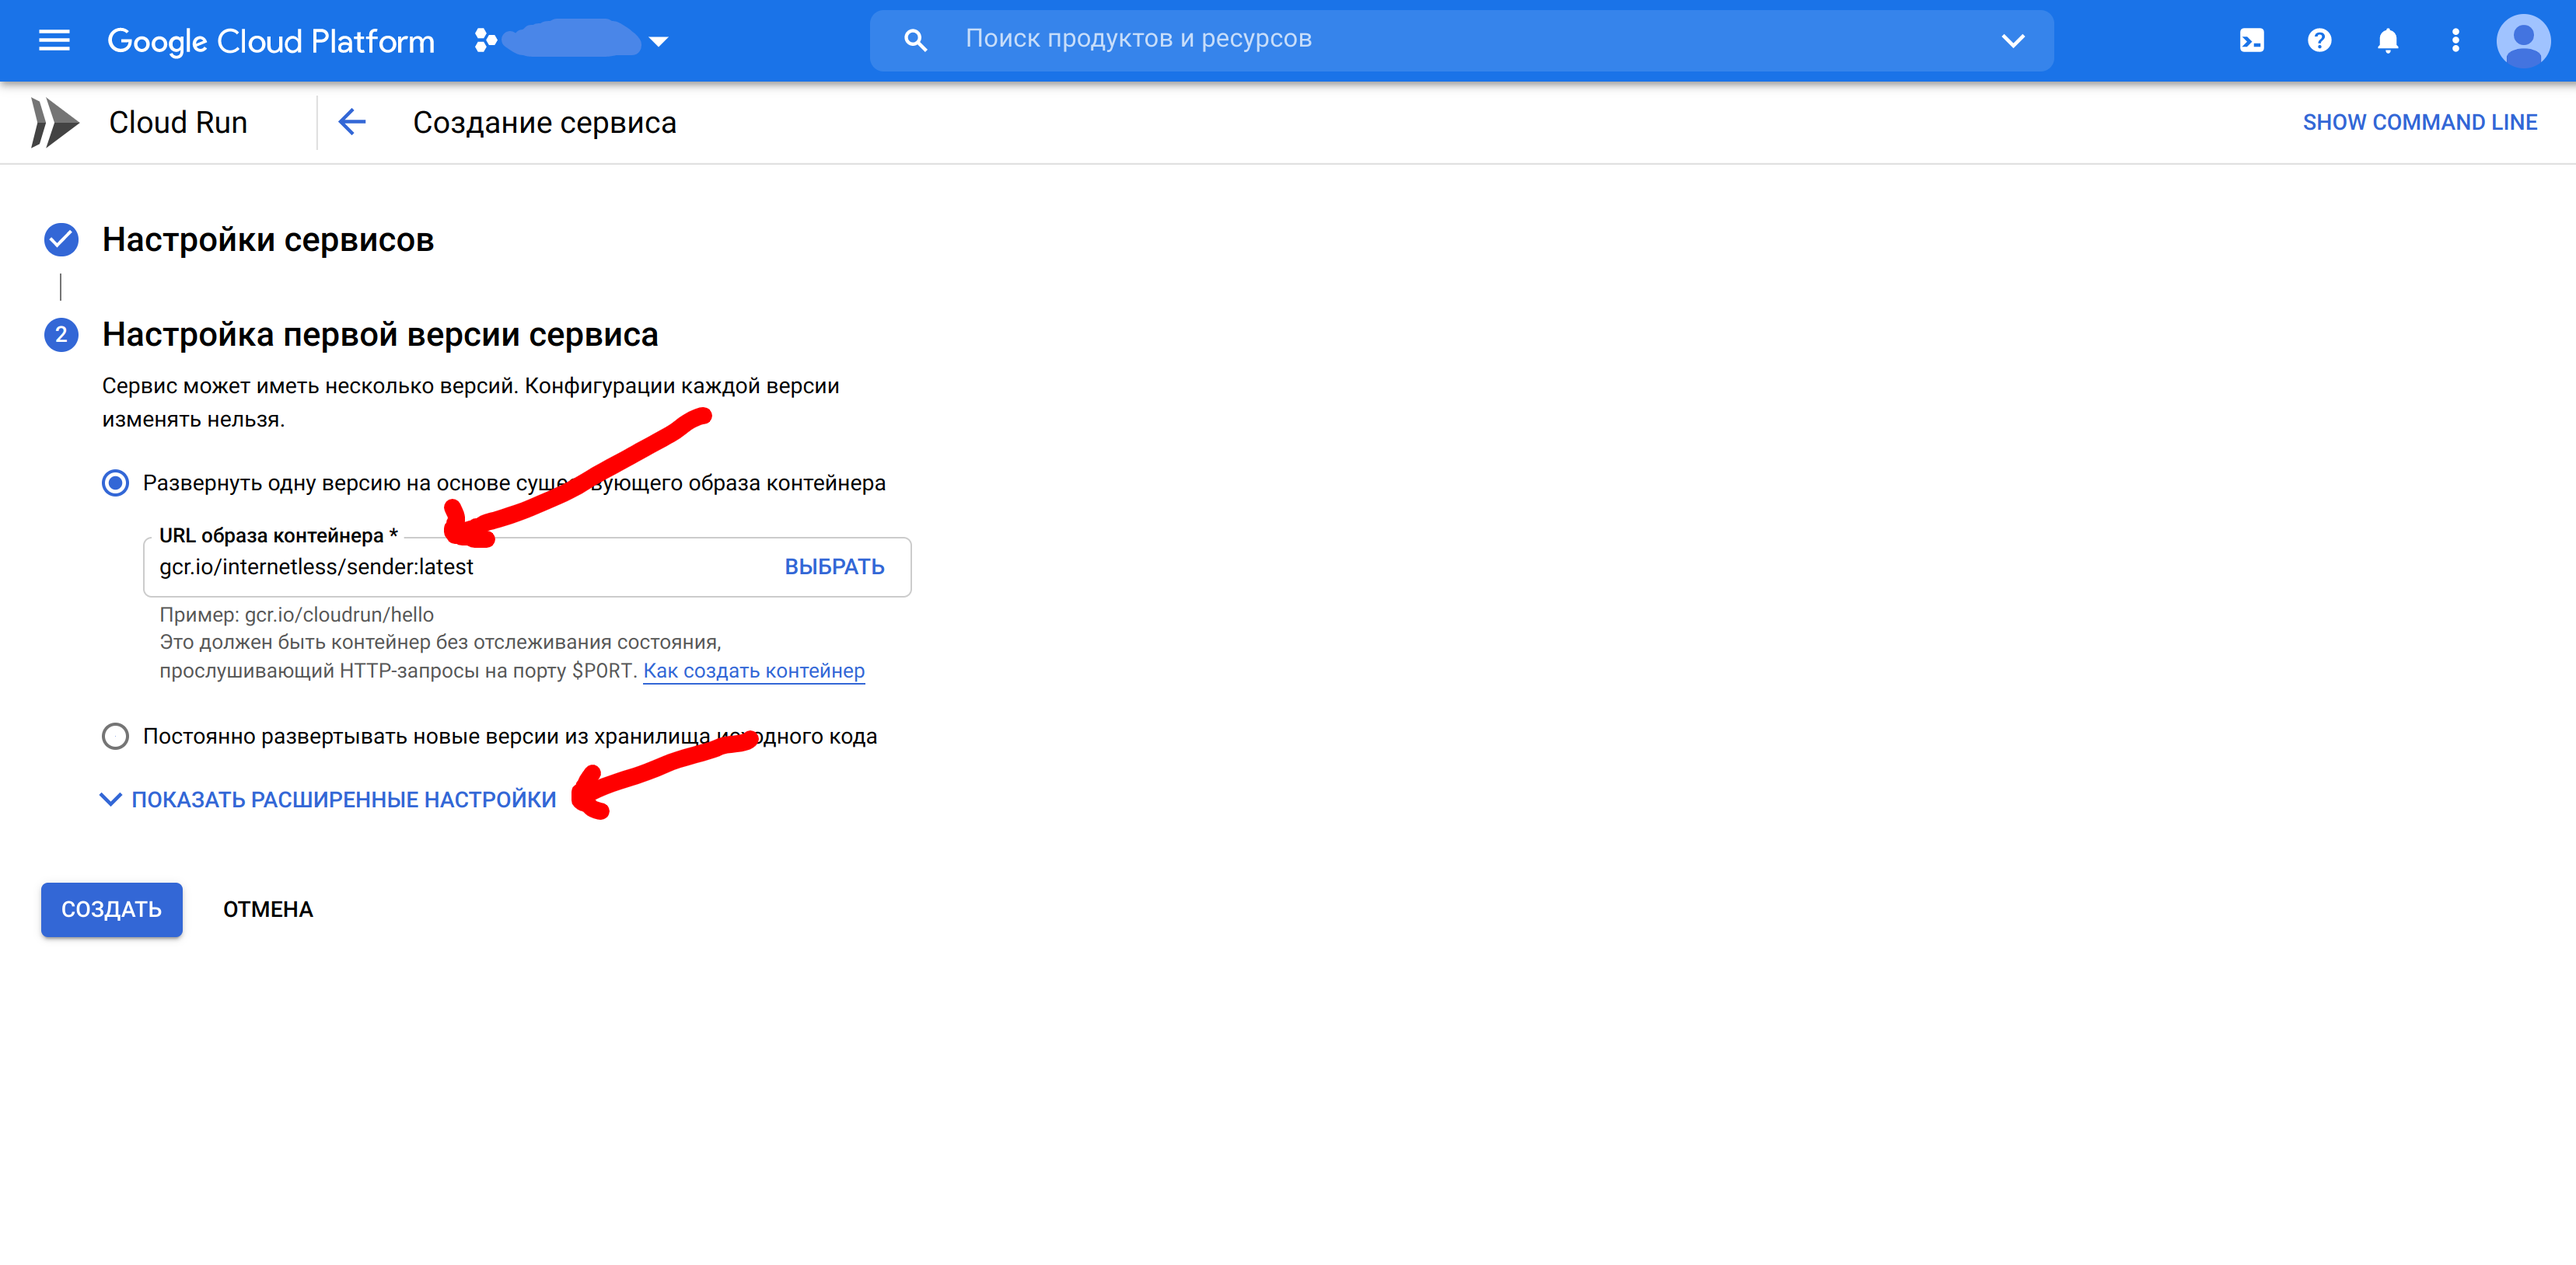
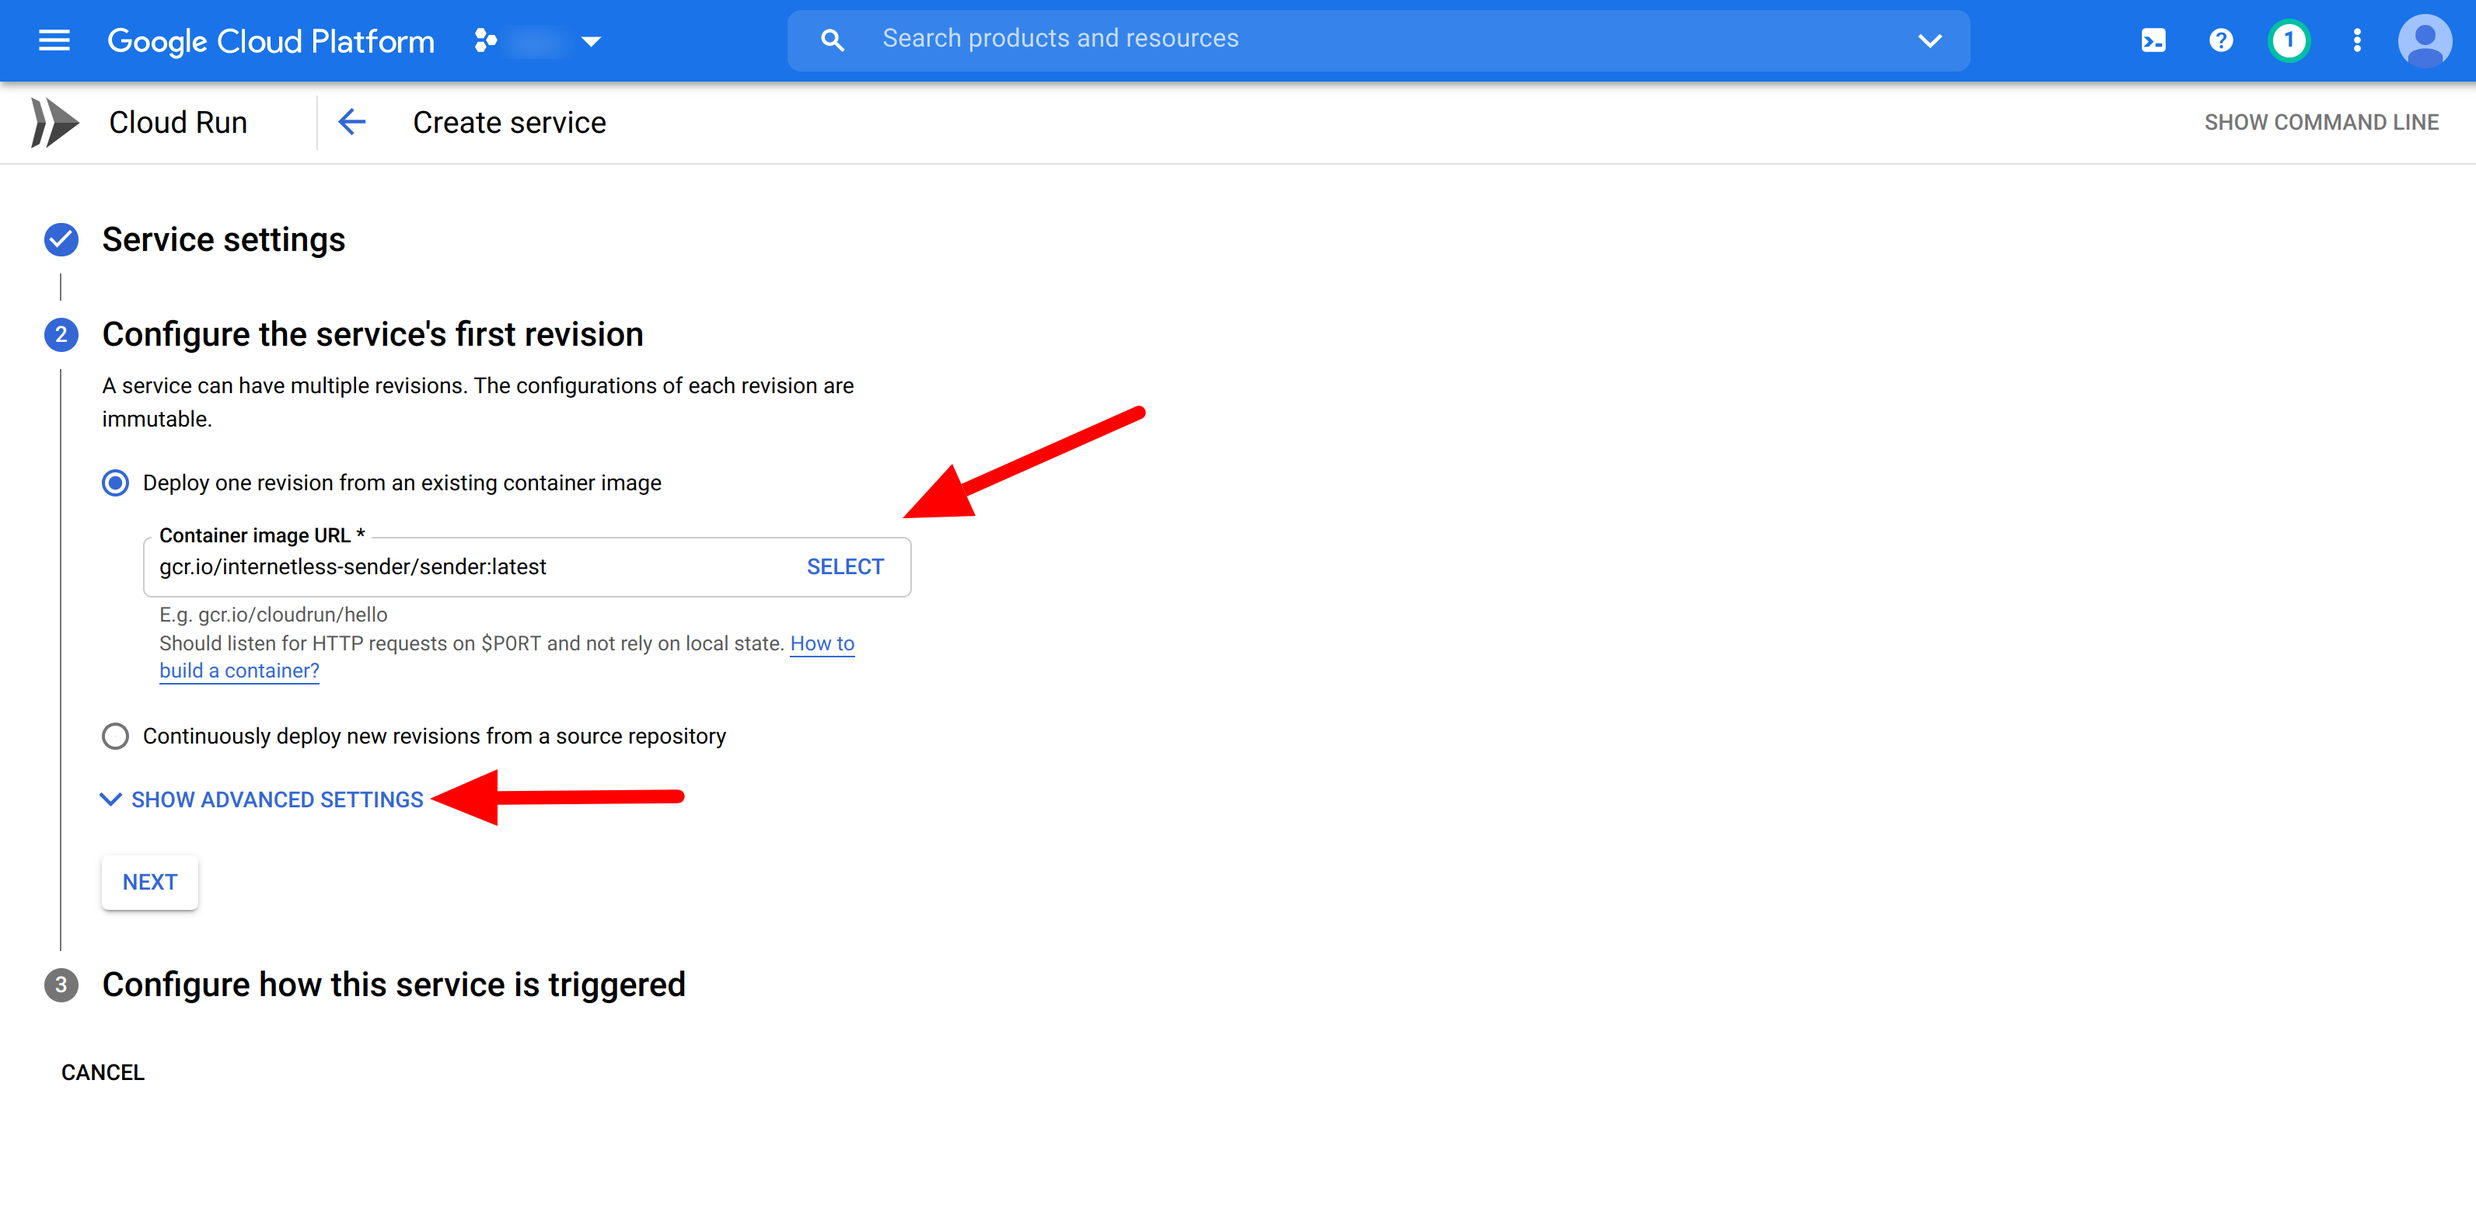
repair

diff --git a/README.md b/README.md
@@ -23,7 +23,7 @@
 2. Активируйте trial. [Screenshot](https://raw.githubusercontent.com/InternetLess/sender/master/screenshots/activate-gcp-trial.png). Там потребуется карта, но это бесплатно и гуглу можно доверять :)
 3. Зайдите на страницу создания сервиса Cloud Run(это дешёвый способ запускать контейнеры). https://console.cloud.google.com/run/create
 4. Заполните поля, как на скриншоте. [Screenshot](https://raw.githubusercontent.com/InternetLess/sender/master/screenshots/cloud-run-fill-1.png)
-5. Url образа контейнера: `gcr.io/internetless/sender:latest` [Screenshot](https://raw.githubusercontent.com/InternetLess/sender/master/screenshots/cloud-run-fill-2.png)
+5. Url образа контейнера: `gcr.io/internetless-sender/sender:latest` [Screenshot](https://raw.githubusercontent.com/InternetLess/sender/master/screenshots/cloud-run-fill-2.png)
 6. Заполните переменные: [Screenshot](https://raw.githubusercontent.com/InternetLess/sender/master/screenshots/cloud-run-fill-3.png)
     - TWILIO_SID - получили при регистрации на twilio (Account Sid)
     - TWILIO_TOKEN - тоже при регистрации на twilio (Auth Token)
